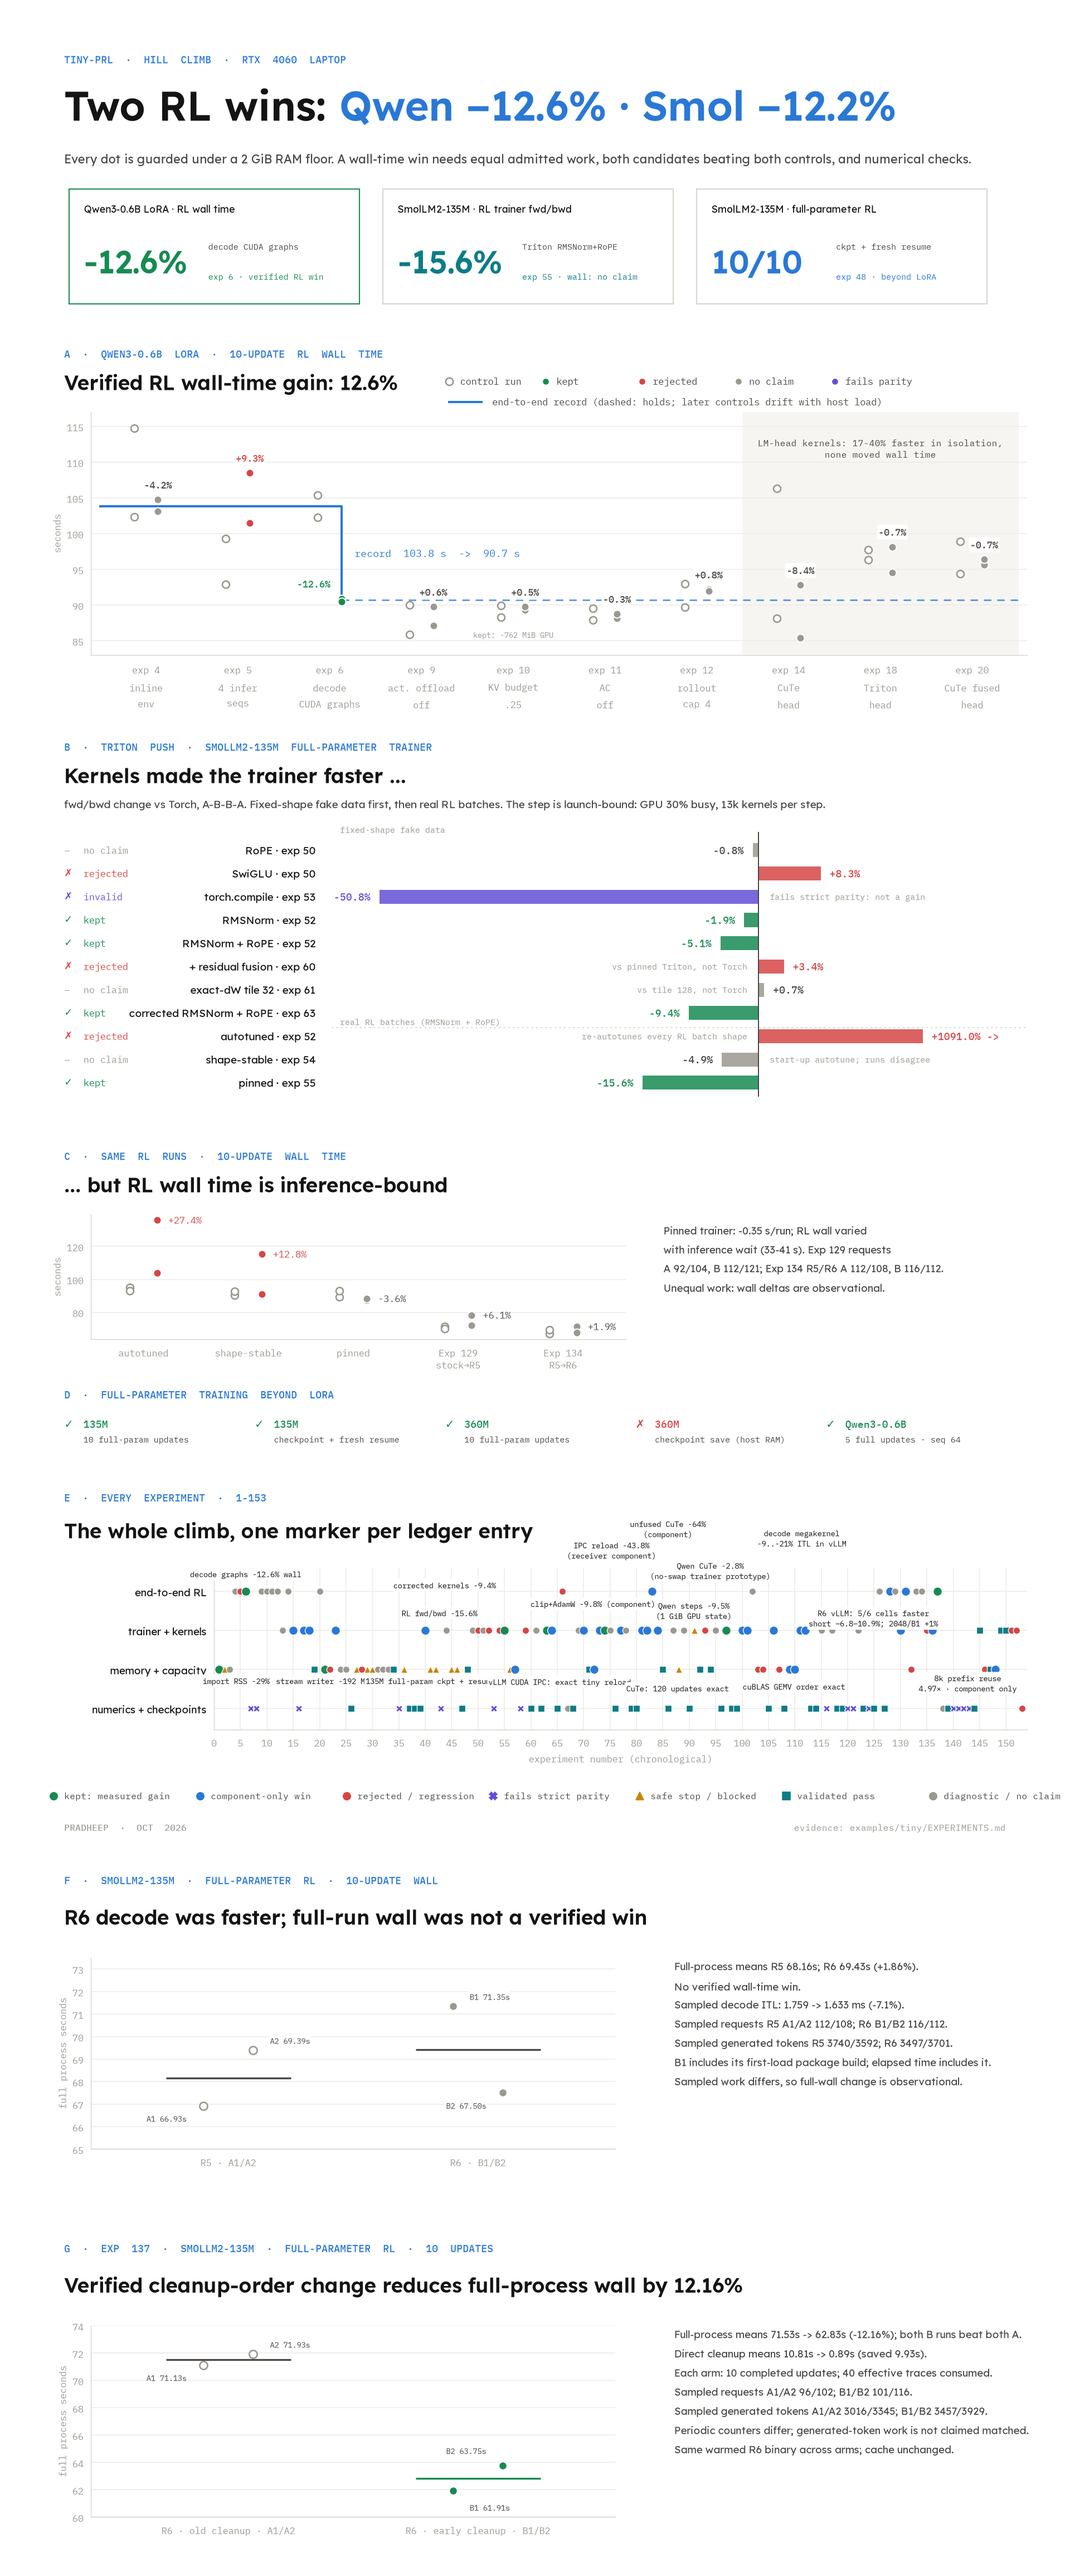
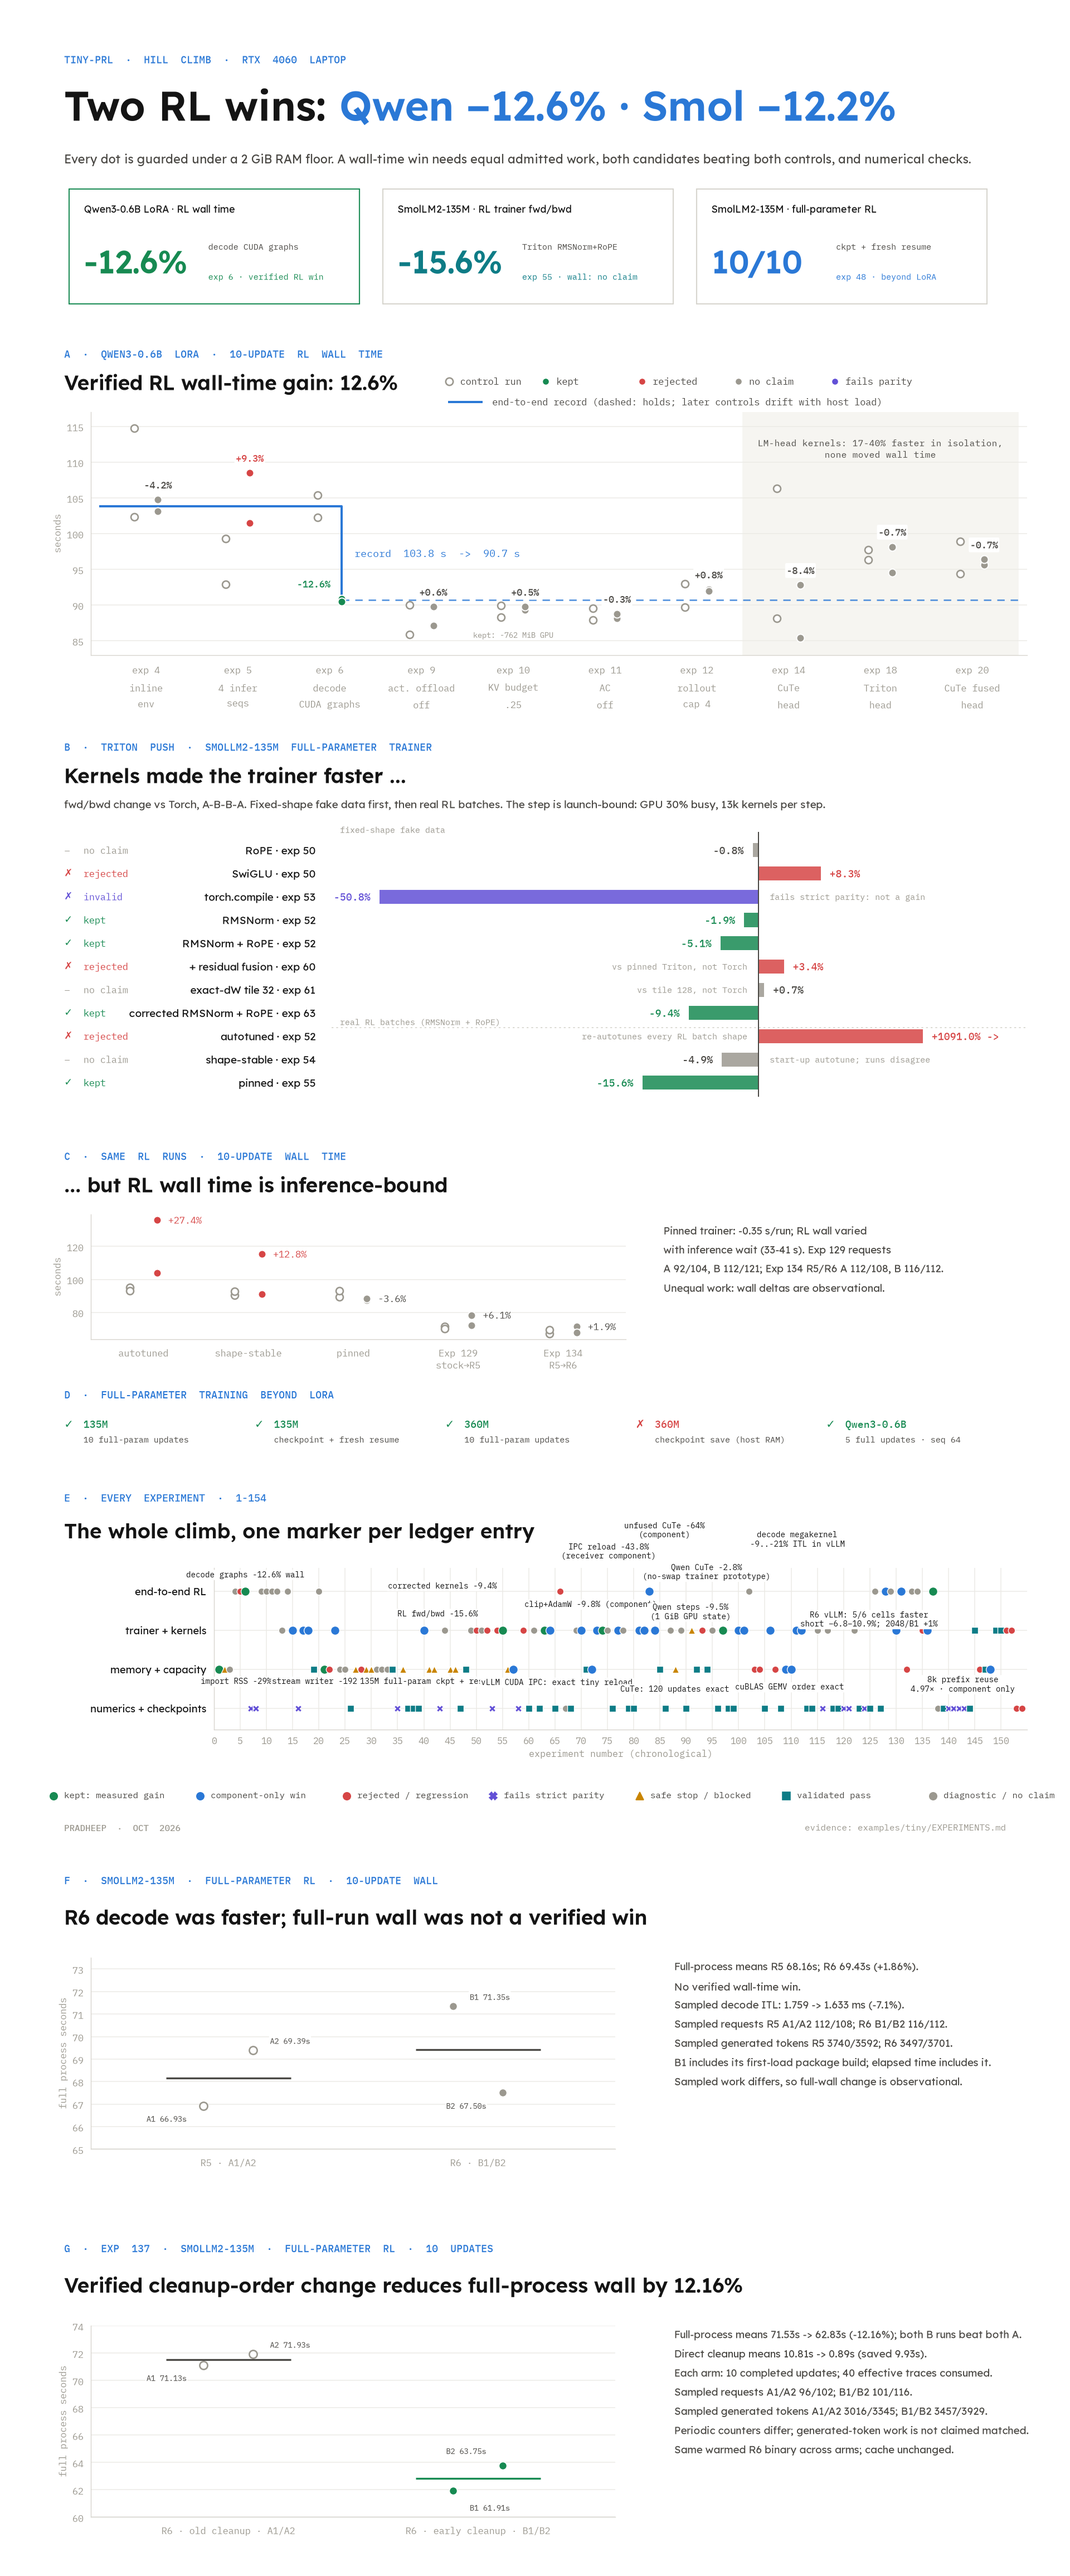
research: record 360M PV validation gains

diff --git a/tools/plot_tiny_hillclimb.py b/tools/plot_tiny_hillclimb.py
@@ -249,6 +249,7 @@ EXPERIMENTS = {
     151: (TRAIN, "rejected"),
     152: (TRAIN, "rejected"),
     153: (NUM, "rejected"),
+    154: (NUM, "rejected"),
 }
 # Callout text with (dx, dy) offsets in points, staggered so neighbours do not collide.
 CALLOUTS = {

diff --git a/examples/tiny/HANDOFF.md b/examples/tiny/HANDOFF.md
@@ -5,7 +5,7 @@ Checkpoint: 2026-10-26. This note captures the current state of the IcePop integ
 ## Repository and environment boundaries
 
 - Prime-RL working repository: `/home/pradheep/tiny-prl/prime-rl`. The published IcePop implementation is commit `c4c7722ec`; the later documentation checkpoint is `b0214cf8f`. Local `upstream/main` is `40babc0833dda27f6c23ab53547dd527e465ae38`. The origin is the personal fork; upstream is PrimeIntellect.
-- Prime-Kernels checkout: `/home/pradheep/tiny-prl/prime-kernels`. Local `main`, `origin/main`, and the Prime-RL submodule are `8ba238c`. This revision checkpoints the 360M R7 research decoder; GitHub Actions workflows remain removed and the active production kernel remains R6.
+- Prime-Kernels checkout: `/home/pradheep/tiny-prl/prime-kernels`. Local `main`, `origin/main`, and the Prime-RL submodule are `0880afc`. This revision checkpoints the 360M R8 research decoder; GitHub Actions workflows remain removed and the active production kernel remains R6.
 - The main worktree now contains the opt-in IcePop integration and related compatibility changes. Concurrent research edits include `examples/tiny/EXPERIMENTS.md`, `examples/tiny/hillclimb.png`, and `tools/plot_tiny_hillclimb.py`; preserve them. The primary progress image remains `examples/tiny/hillclimb.png`.
 - Active dependency submodules are verifiers `1e80567bc3e80de16a73f0fa5e0ee93b15d1cdca` and renderers `70c8204bbce9c0afa7de746c1e249a717980f8dc`. The pinned `/home/pradheep/.venv` remains read-only. The offline lock check did not complete because the cached vLLM 0.31 wheel URL was unavailable; no lockfile edit, download, or environment sync was made. Model dtype settings remain unchanged.
 
@@ -21,11 +21,11 @@ The offline lock check could not complete because its cached vLLM 0.31 wheel URL
 
 ## SmolLM2-360M decode
 
[2 lines of base64/hex data omitted]
 
-R7 passes the initial four B1/B2 context-8/32 fixtures bitwise. On the unchanged 30-case held-out suite it passes 24 and fails 6 numerical gates; all greedy IDs match. It repairs both R6 norm-stage failures without a pass-to-fail case, but remains unaccepted. R13 completed all 30 cases; the guard returned 1 for numerical failures and reported no resource stop. No speed, serving, reward, or quality gain is established.
+R8 passes the initial four B1/B2 context-8/32 fixtures bitwise. On the unchanged 30-case held-out suite it passes 29 and fails one numerical gate; all 30 greedy IDs match, and the 29 passing cases have bitwise-equal final logits. The sole failure is `seed17-b1-ctx16`: its first post-block output difference is at layer 9 while K/V there is exact, and its first K/V difference is at layer 10. The R15 causal-layer-9 diagnostic found Q, raw/scaled QK, and probabilities exact; PV differed in one element by one BF16 ULP. The held-out guard completed all cases without a resource stop and returned 1 for that numerical failure. R8 remains unaccepted; no speed, serving, reward, or quality gain is established.
 
-Evidence: initial four `outputs/megakernel-20261025/decode-360-validation-r10/results-r2-r7/`; full held-out `block-360-heldout-r13/`; RMS primitive replay `norm360-probe-r3/results-r3/`; build provenance `decode-360-cuda-r7/provenance.json`. The archive `validation-summary.json` retains the compact R4 and R6 history. Six held-out failures remain under the unchanged gates.
+R7 is retained as compact history: it passed the initial four and 24/30 held-out cases; R6 passed 22/30 and R4 passed 20/30. Evidence for R8: initial four `outputs/megakernel-20261025/decode-360-validation-r10/results-r3-r8/`; full held-out `block-360-heldout-r14/`; causal diagnostic `block-360-heldout-r15/`; RMS primitive replay `norm360-probe-r3/results-r3/`; build provenance `decode-360-cuda-r8/provenance.json`. The archive `validation-summary.json` retains R7 and earlier hashes and results.
 
 ## KV-cache offload
 
@@ -40,4 +40,4 @@ The short-context R6 smoke is functionally exact for the tested 32 generated IDs
 
 ## Published checkpoint files
 
-`research/icepop-score-centering/` contains the full replayable port patch, exact dependency manifest, patch/source-hash validation, CPU results/commands, and main integration audit for three 10-update runs. The full 360M decoder archive is in the separate prime-kernels fork under `research/smollm2_360m_decode/`; its four initial fixtures pass but ten of 30 held-out cases fail, so it remains unaccepted. Continue with direct native-versus-candidate QK/PV/reduction diagnosis and validate any changed candidate against the unchanged gates; do not relax them.
+`research/icepop-score-centering/` contains the full replayable port patch, exact dependency manifest, patch/source-hash validation, CPU results/commands, and main integration audit for three 10-update runs. The full 360M decoder archive is in the separate prime-kernels fork under `research/smollm2_360m_decode/`; R8 passes its four initial fixtures and 29/30 held-out cases, so it remains unaccepted. Continue with direct native-versus-candidate QK/PV/reduction diagnosis and validate any changed candidate against the unchanged gates; do not relax them.

diff --git a/examples/tiny/EXPERIMENTS.md b/examples/tiny/EXPERIMENTS.md
@@ -1334,3 +1334,9 @@ R7 keeps R6's four-lane QK reduction and changes the RMSNorm reduction sequence:
 On the unchanged 30-case held-out suite, R7 passes 24 and fails 6 numerical gates; all 30 greedy IDs match. It repairs both R6 norm failures and introduces no pass-to-fail cases. The held-out guard returned 1 for numerical failures, without a resource stop; runtime was 10.256 s, peak GPU memory 1355 MiB, and swap use zero. R7 remains rejected under the existing thresholds; no speed, production, reward, or quality gain is established.
 
 Evidence: `outputs/megakernel-20261025/decode-360-validation-r10/results-r2-r7/comparison.json`, `decode-360-validation-r10/guard-r7/result.json`, `block-360-heldout-r13/results-r1/comparison.json`, `block-360-heldout-r13/guard/result.json`, and `decode-360-cuda-r7/provenance.json`. The portable current source and compact R4/R6 history are in `prime-kernels/research/smollm2_360m_decode/`.
+
+## Experiment 154: R8 PV dispatch passes 29 of 30 full-decoder cases
+
+R8 keeps R7's CUDA source and changes only PV scheduling in the kernel include. It passes all four initial B1/B2 context-8/32 fixtures bitwise, including per-layer block outputs, KV, final hidden state, and logits. On the unchanged 30-case held-out suite, 29 pass the original numerical gates and one fails; all 30 greedy token IDs match, and the final logits are bitwise exact on the 29 passing cases. The sole failure is `seed17-b1-ctx16`: the first post-block output divergence is at layer 9 while K/V is still exact, followed by the first K/V divergence at layer 10. The fixed layer-15 diagnostic snapshot reports a later difference and does not change that causal ordering. R8 improves from R7's 24/30, but remains rejected under the unchanged thresholds. This is numerical evidence only; no speed, serving, reward, or quality gain is claimed.
+
+The initial-four guard returned 0 in 6.04 s with zero swap and 1339 MiB GPU peak. The 30-case guard completed without a resource stop, returned 1 for the single numerical gate failure, took 10.05 s, used zero swap, and peaked at 1357 MiB GPU memory. A follow-up diagnostic at the failing case's causal layer 9 found rotated Q, raw/scaled QK, and probabilities bitwise exact; PV differed in one output by one BF16 ULP. That diagnostic completed with guard 0 in 4.63 s, 1309 MiB GPU peak, and zero swap; it is not a replacement full-suite validation. Evidence: `outputs/megakernel-20261025/decode-360-validation-r10/results-r3-r8/comparison.json`, `decode-360-validation-r10/guard-r8/result.json`, `block-360-heldout-r14/results-r1/comparison.json`, `block-360-heldout-r14/guard/result.json`, `block-360-heldout-r15/results-r1/comparison.json`, `block-360-heldout-r15/guard/result.json`, and `decode-360-cuda-r8/provenance.json`. The current R8 source and R7/R6/R4 history are archived in `prime-kernels/research/smollm2_360m_decode/`.
